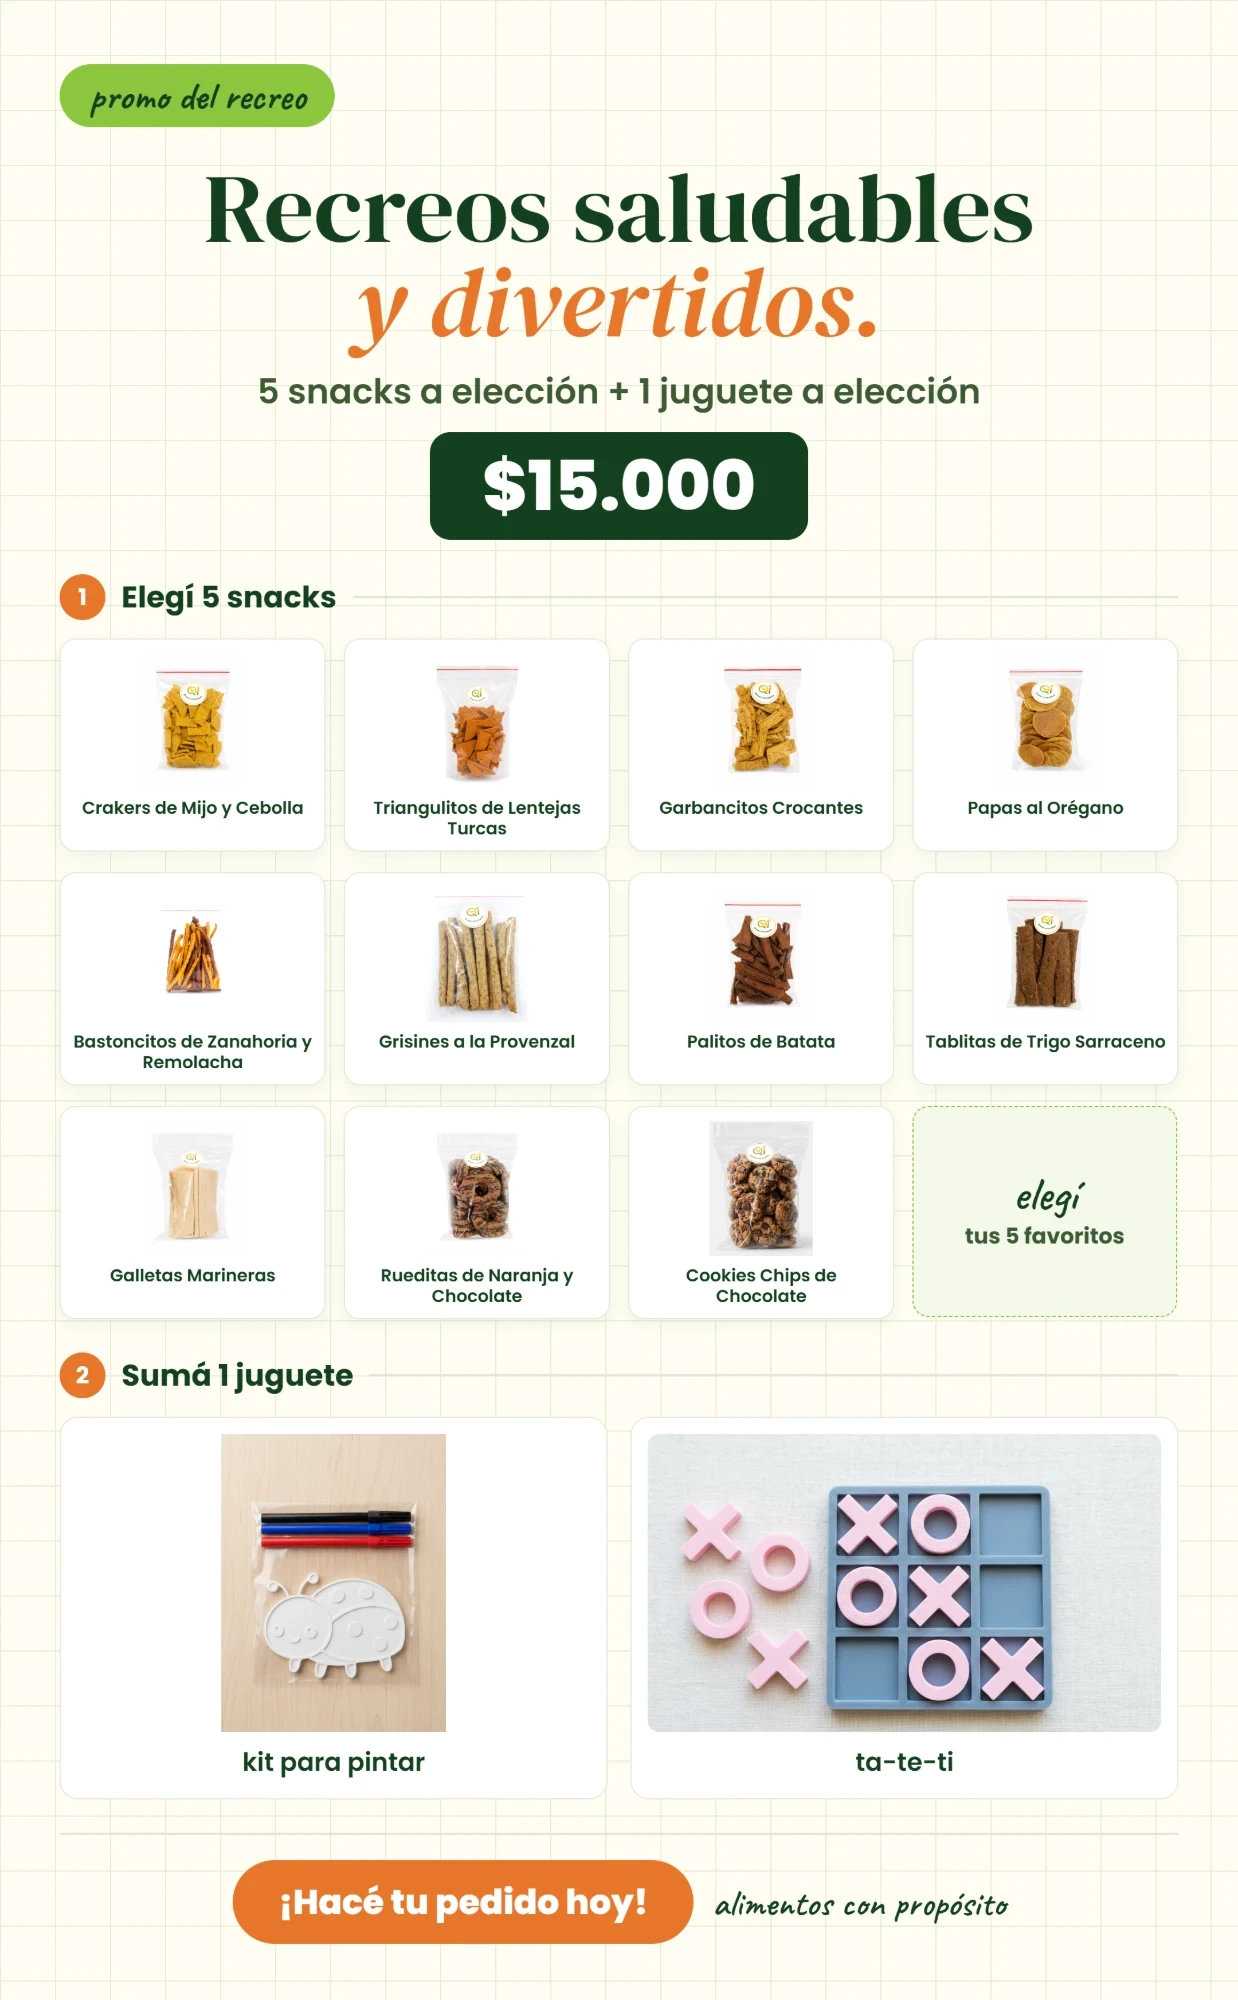
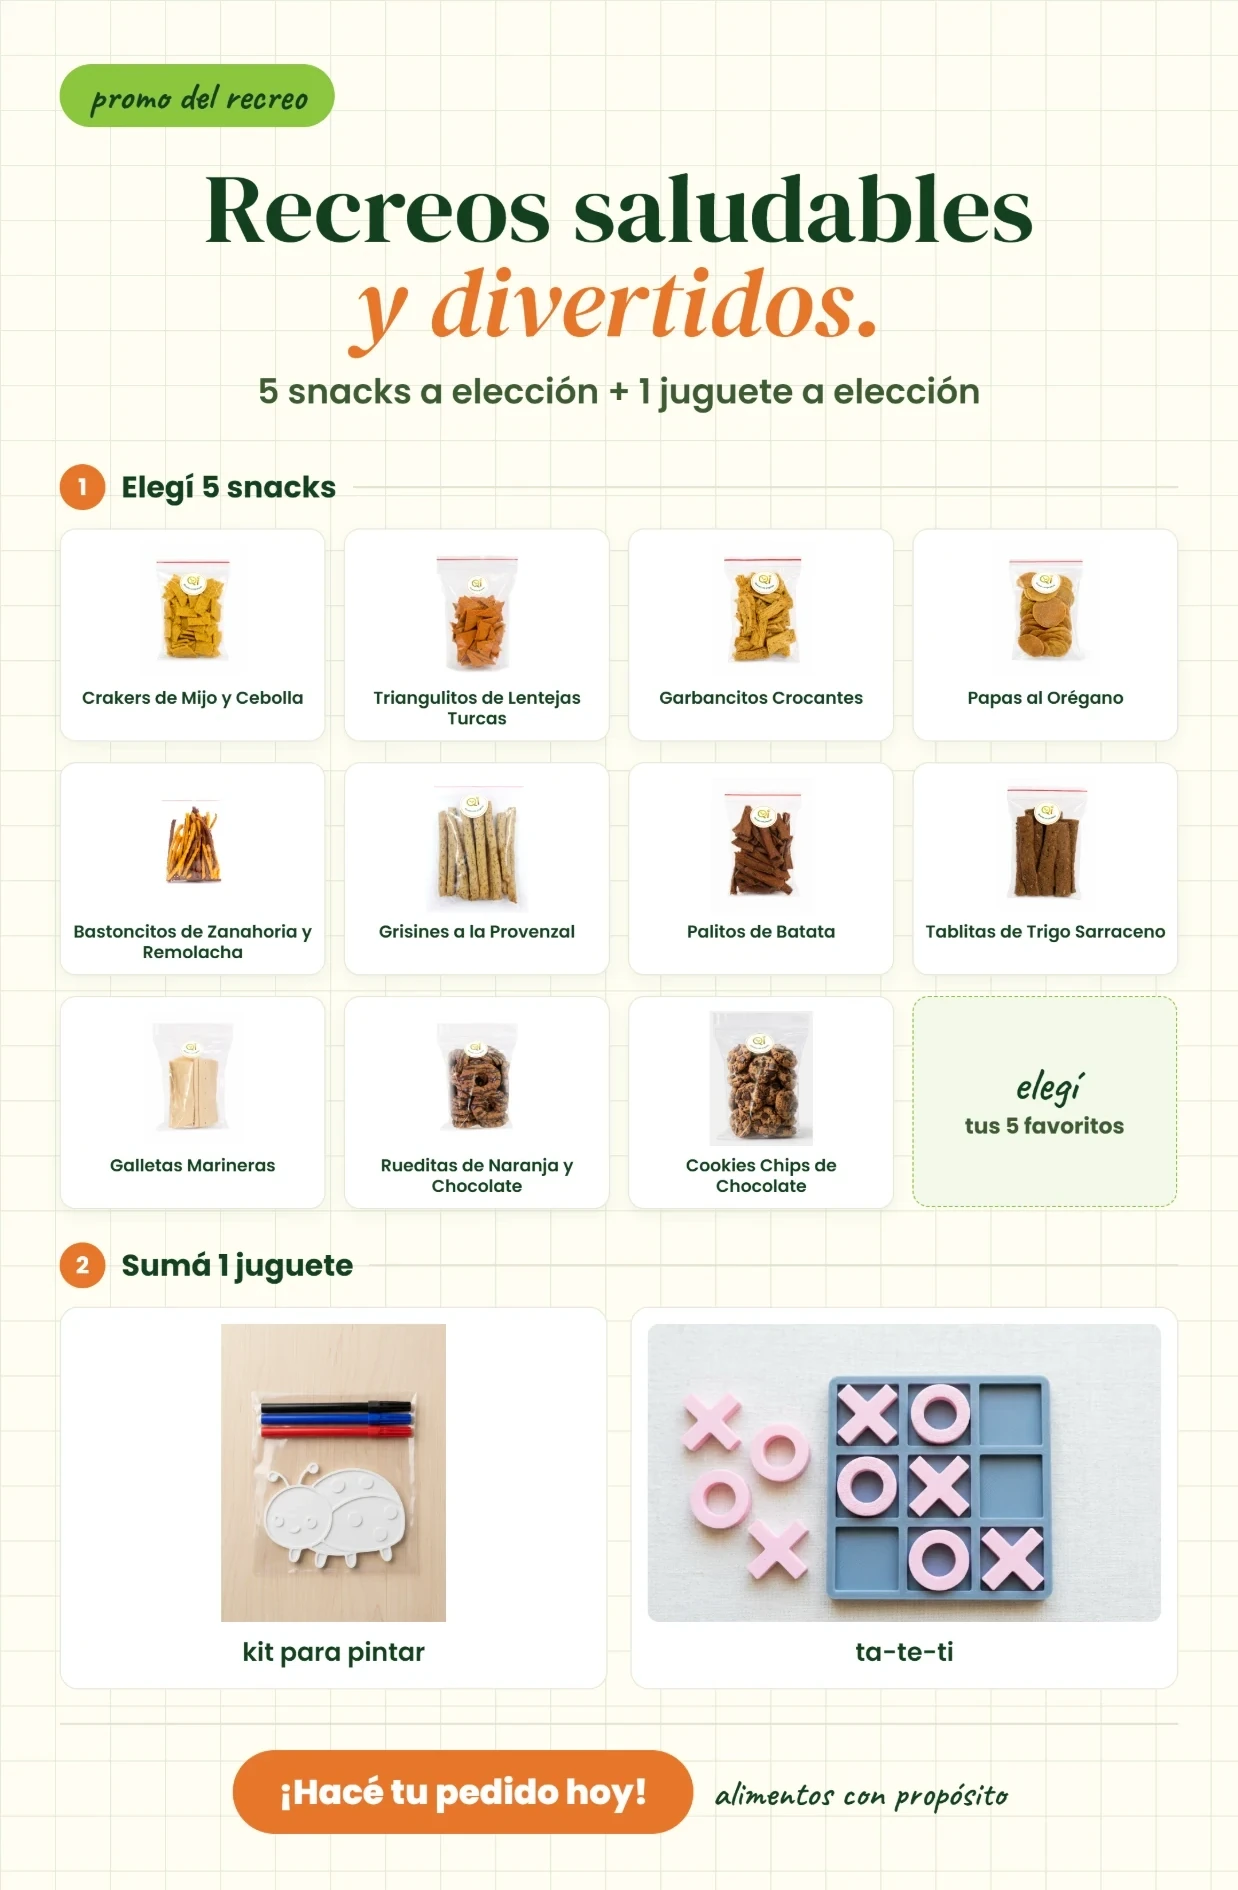
Promo del recreo: saca el precio de la imagen (queda solo en la web)
Claude-Session: https://claude.ai/code/session_01P2cDzbxLya8mcqcatAZJBb

diff --git a/index.html b/index.html
@@ -1146,7 +1146,7 @@
         toys: [{ id: "pintar", label: "Kit para pintar" }, { id: "tateti", label: "Ta-te-ti" }]
       },
       sizes: { promo: { weight: "5 snacks + 1 juguete", price: 17000 } },
-      images: ["Promo%20recreo/promo-recreo.webp"]
+      images: ["Promo%20recreo/promo-recreo.webp?v=2"]
     },
     {
       id: 17, num: "NOVEDAD",
